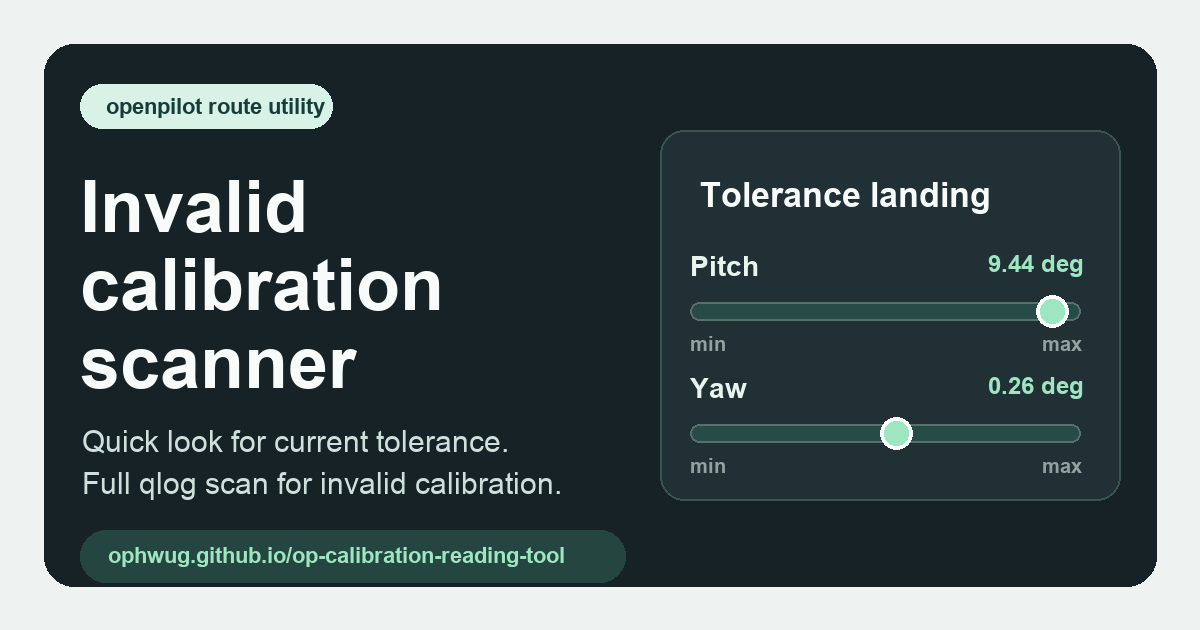
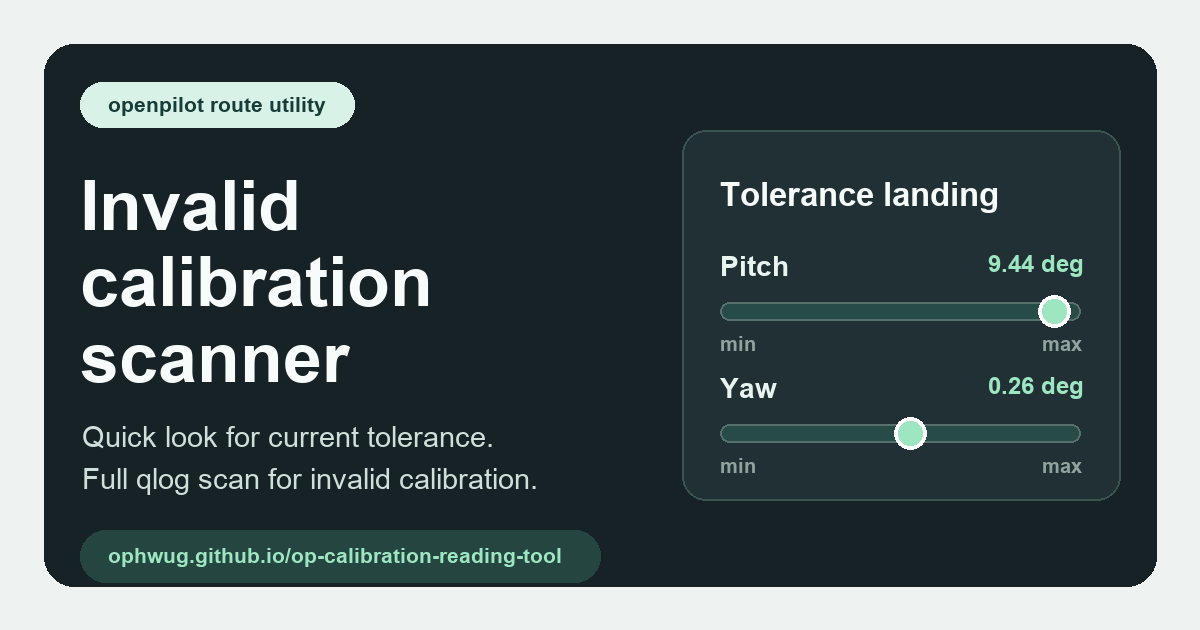
Tighten social preview layout

diff --git a/scripts/generate_og_preview.py b/scripts/generate_og_preview.py
@@ -26,8 +26,38 @@ def text(draw: ImageDraw.ImageDraw, xy: tuple[int, int], value: str, size: int, 
     draw.text(xy, value, font=font(size, bold), fill=fill)
 
 
+def text_width(draw: ImageDraw.ImageDraw, value: str, size: int, bold: bool = False) -> int:
+    box = draw.textbbox((0, 0), value, font=font(size, bold))
+    return box[2] - box[0]
+
+
+def fitted_text(
+    draw: ImageDraw.ImageDraw,
+    xy: tuple[int, int],
+    value: str,
+    size: int,
+    max_width: int,
+    fill: str,
+    bold: bool = False,
+    min_size: int = 16,
+) -> None:
+    while size > min_size and text_width(draw, value, size, bold) > max_width:
+        size -= 1
+    draw.text(xy, value, font=font(size, bold), fill=fill)
+
+
+def pill(draw: ImageDraw.ImageDraw, xy: tuple[int, int], value: str, size: int, fill: str, text_fill: str) -> None:
+    x, y = xy
+    padding_x = 28
+    padding_y = 12
+    width = text_width(draw, value, size, True) + padding_x * 2
+    height = size + padding_y * 2
+    draw.rounded_rectangle((x, y, x + width, y + height), radius=height // 2, fill=fill)
+    text(draw, (x + padding_x, y + padding_y - 2), value, size, text_fill, True)
+
+
 def tolerance_row(draw: ImageDraw.ImageDraw, y: int, label: str, value_pct: float, value: str) -> None:
-    left = 690
+    left = 720
     right = 1080
     track_y = y + 52
     text(draw, (left, y), label, 28, "#eaf4ef", True)
@@ -45,20 +75,28 @@ def main() -> None:
     draw = ImageDraw.Draw(image)
 
     draw.rounded_rectangle((44, 44, WIDTH - 44, HEIGHT - 44), radius=30, fill="#172226")
-    draw.rounded_rectangle((80, 84, 332, 128), radius=22, fill="#d9f2e7")
-    text(draw, (106, 94), "openpilot route utility", 22, "#173d39", True)
+    pill(draw, (80, 82), "openpilot route utility", 21, "#d9f2e7", "#173d39")
 
-    text(draw, (80, 166), "Invalid", 72, "#f7fbf9", True)
-    text(draw, (80, 244), "calibration", 72, "#f7fbf9", True)
-    text(draw, (80, 322), "scanner", 72, "#f7fbf9", True)
-    text(draw, (82, 424), "Quick look for current tolerance.", 30, "#cfe0da", False)
-    text(draw, (82, 466), "Full qlog scan for invalid calibration.", 30, "#cfe0da", False)
+    text(draw, (80, 166), "Invalid", 70, "#f7fbf9", True)
+    text(draw, (80, 242), "calibration", 70, "#f7fbf9", True)
+    text(draw, (80, 318), "scanner", 70, "#f7fbf9", True)
+    text(draw, (82, 420), "Quick look for current tolerance.", 29, "#cfe0da", False)
+    text(draw, (82, 462), "Full qlog scan for invalid calibration.", 29, "#cfe0da", False)
 
-    draw.rounded_rectangle((80, 530, 625, 582), radius=26, fill="#244540")
-    text(draw, (108, 543), "ophwug.github.io/op-calibration-reading-tool", 22, "#9ee6c1", True)
+    draw.rounded_rectangle((80, 530, 600, 582), radius=26, fill="#244540")
+    fitted_text(
+        draw,
+        (108, 543),
+        "ophwug.github.io/op-calibration-reading-tool",
+        21,
+        464,
+        "#9ee6c1",
+        True,
+        min_size=18,
+    )
 
-    draw.rounded_rectangle((660, 130, 1120, 500), radius=24, fill="#203034", outline="#3a5550", width=2)
-    text(draw, (700, 176), "Tolerance landing", 34, "#f7fbf9", True)
+    draw.rounded_rectangle((682, 130, 1120, 500), radius=24, fill="#203034", outline="#3a5550", width=2)
+    text(draw, (720, 176), "Tolerance landing", 33, "#f7fbf9", True)
     tolerance_row(draw, 250, "Pitch", 0.93, "9.44 deg")
     tolerance_row(draw, 372, "Yaw", 0.53, "0.26 deg")
 